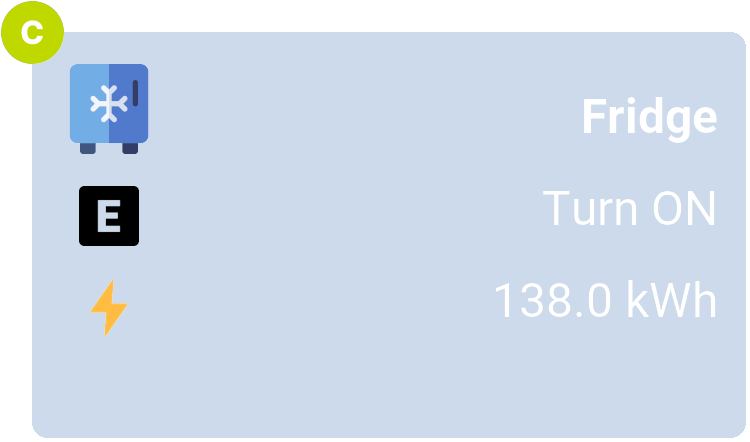
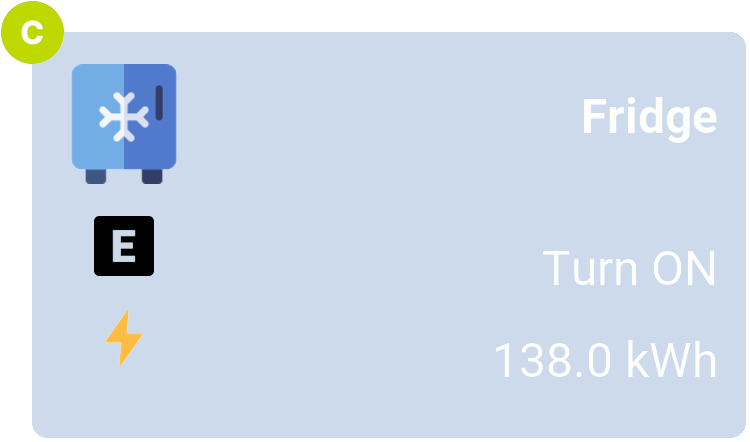
Change image sizes and add AC

diff --git a/Dialog-content/code/add_images.py b/Dialog-content/code/add_images.py
@@ -25,14 +25,15 @@ def add_note(image, name):
     # Paste the image at the calculated position
     image.paste(note_image, logo_position, note_image)
 
-# Add the given image to the final image
 def add_image(image, path, position, size=None):
     # Open the PNG image
     img = Image.open(path)
 
-    # Resize the image if size is specified
-    if size is not None:
-        img = img.resize((size, size))
+    if size is None:
+        # Set size to SMALL_IMAGE_SIZE if it's None
+        size = SMALL_IMAGE_SIZE
+
+    img = img.resize((size, size))
 
     # Paste the image at the specified position
     image.paste(img, position, img)
@@ -41,7 +42,7 @@ def add_image(image, path, position, size=None):
 def add_object(draw, image, name, object_index):
     object_image_path = "images/objects/" + name + ".png"
     position = (X_OBJECT, Y_OBJECT)
-    add_image(image, object_image_path, position)
+    add_image(image, object_image_path, position, LARGE_IMAGE_SIZE)
 
     # Add text to the image
     text = OBJECT_NAMES[object_index]
@@ -72,7 +73,7 @@ def add_action_info(draw, image, is_on):
     # Calculate the position to center the text
     text_bbox = draw.textbbox((0, 0), text, font=font)
     x = WIDTH - MARGIN - text_bbox[2] - text_bbox[0]
-    y = Y_OBJECT + SMALL_IMAGE_SIZE + MARGIN + FONT_SIZE // 2
+    y = Y_OBJECT + LARGE_IMAGE_SIZE + MARGIN + FONT_SIZE // 2
 
     # Draw the text on the image using the defined font_size and text_bbox
     draw.text((x, y), text, font=font, fill=font_color, align ="right")
@@ -98,7 +99,7 @@ def add_energy_info(draw, image, object_index, note, excel_file):
     # Calculate the position to center the text
     text_bbox = draw.textbbox((0, 0), text, font=font)
     x = WIDTH - MARGIN - text_bbox[2] - text_bbox[0]
-    y = Y_OBJECT + SMALL_IMAGE_SIZE + MARGIN + SMALL_IMAGE_SIZE + MARGIN + FONT_SIZE // 2
+    y = Y_OBJECT + LARGE_IMAGE_SIZE + MARGIN + SMALL_IMAGE_SIZE + MARGIN + FONT_SIZE // 2
 
     # Draw the text on the image using the defined font_size and text_bbox
     draw.text((x, y), text, font=font, fill=font_color, align ="right")

diff --git a/Dialog-content/code/constants.py b/Dialog-content/code/constants.py
@@ -10,12 +10,12 @@ RECT_W, RECT_H = 745, 437
 X_OBJECT, Y_OBJECT = X_CORNER + MARGIN, Y_CORNER + MARGIN
 
 SMALL_IMAGE_SIZE = 60
-LARGE_IMAGE_SIZE = 90
+LARGE_IMAGE_SIZE = 120
 
 NOTES = {"a", "b", "c", "d", "e", "f", "g"}
 
-OBJECTS = ["tv", "printer", "pc", "fridge", "bulb"]
-OBJECT_NAMES = ["TV", "Printer", "PC", "Fridge", "Light bulb"]
+OBJECTS = ["tv", "printer", "pc", "fridge", "bulb", "air_conditioner"]
+OBJECT_NAMES = ["TV", "Printer", "PC", "Fridge", "Light bulb", "Air conditioner"]
 
 UNIT = "kWh"
 
